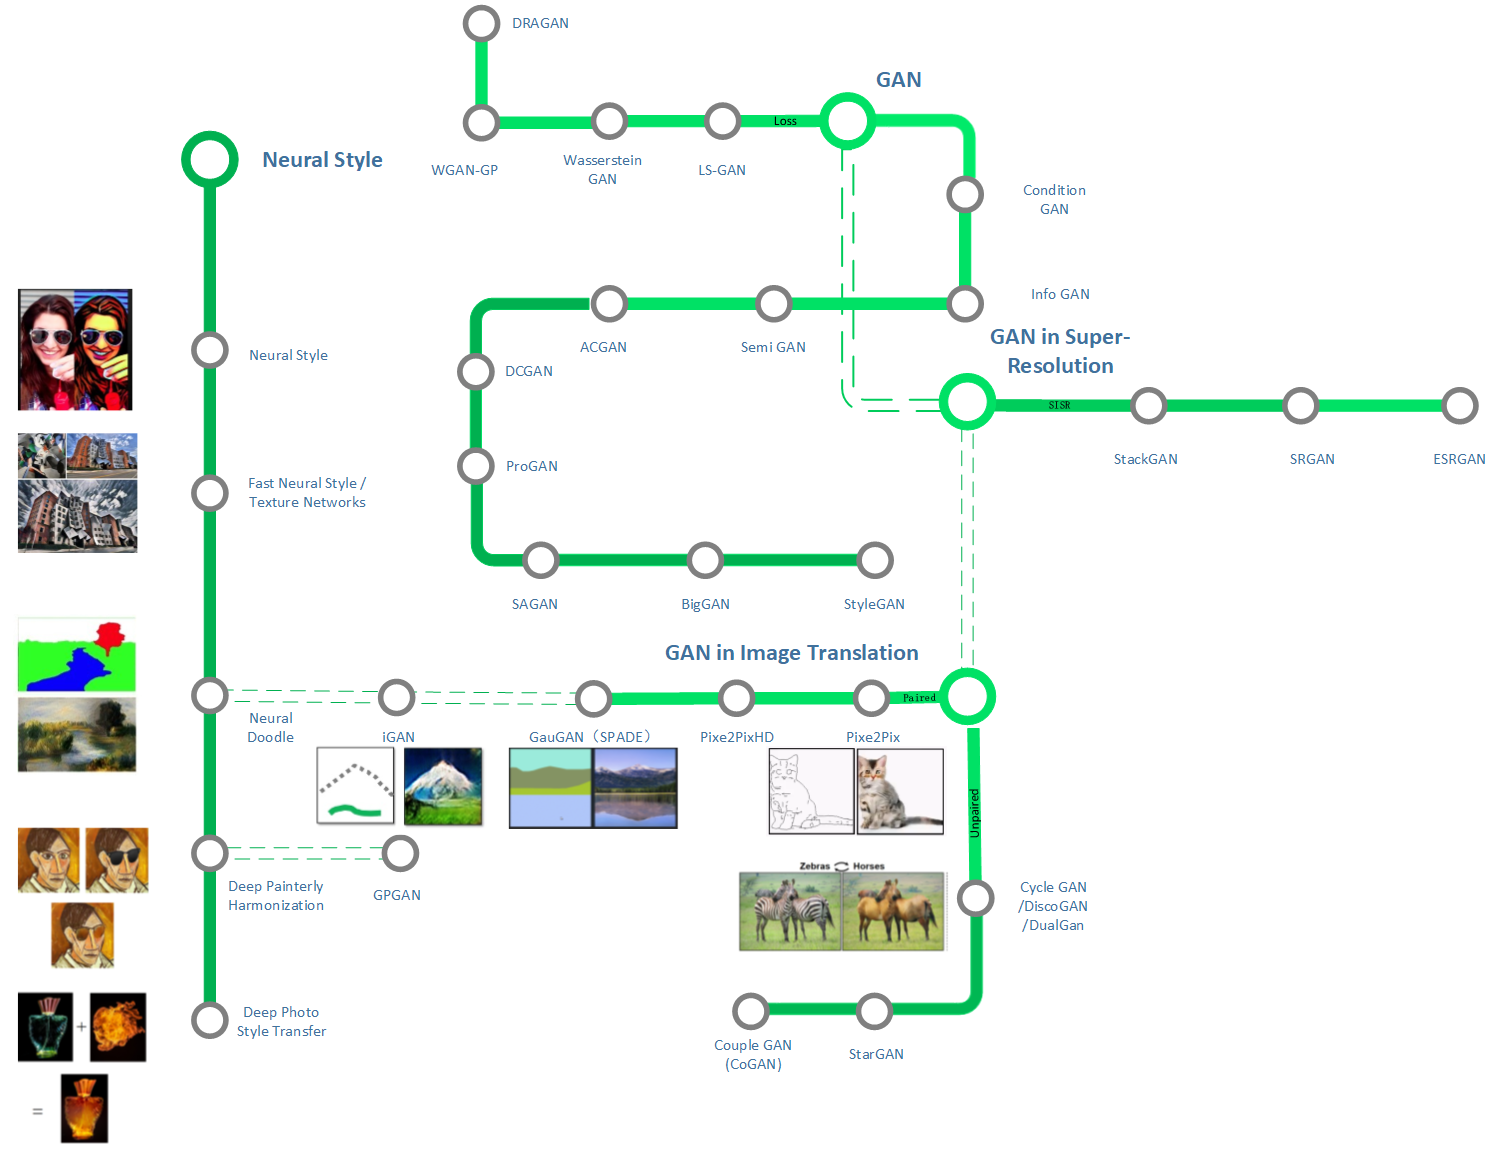
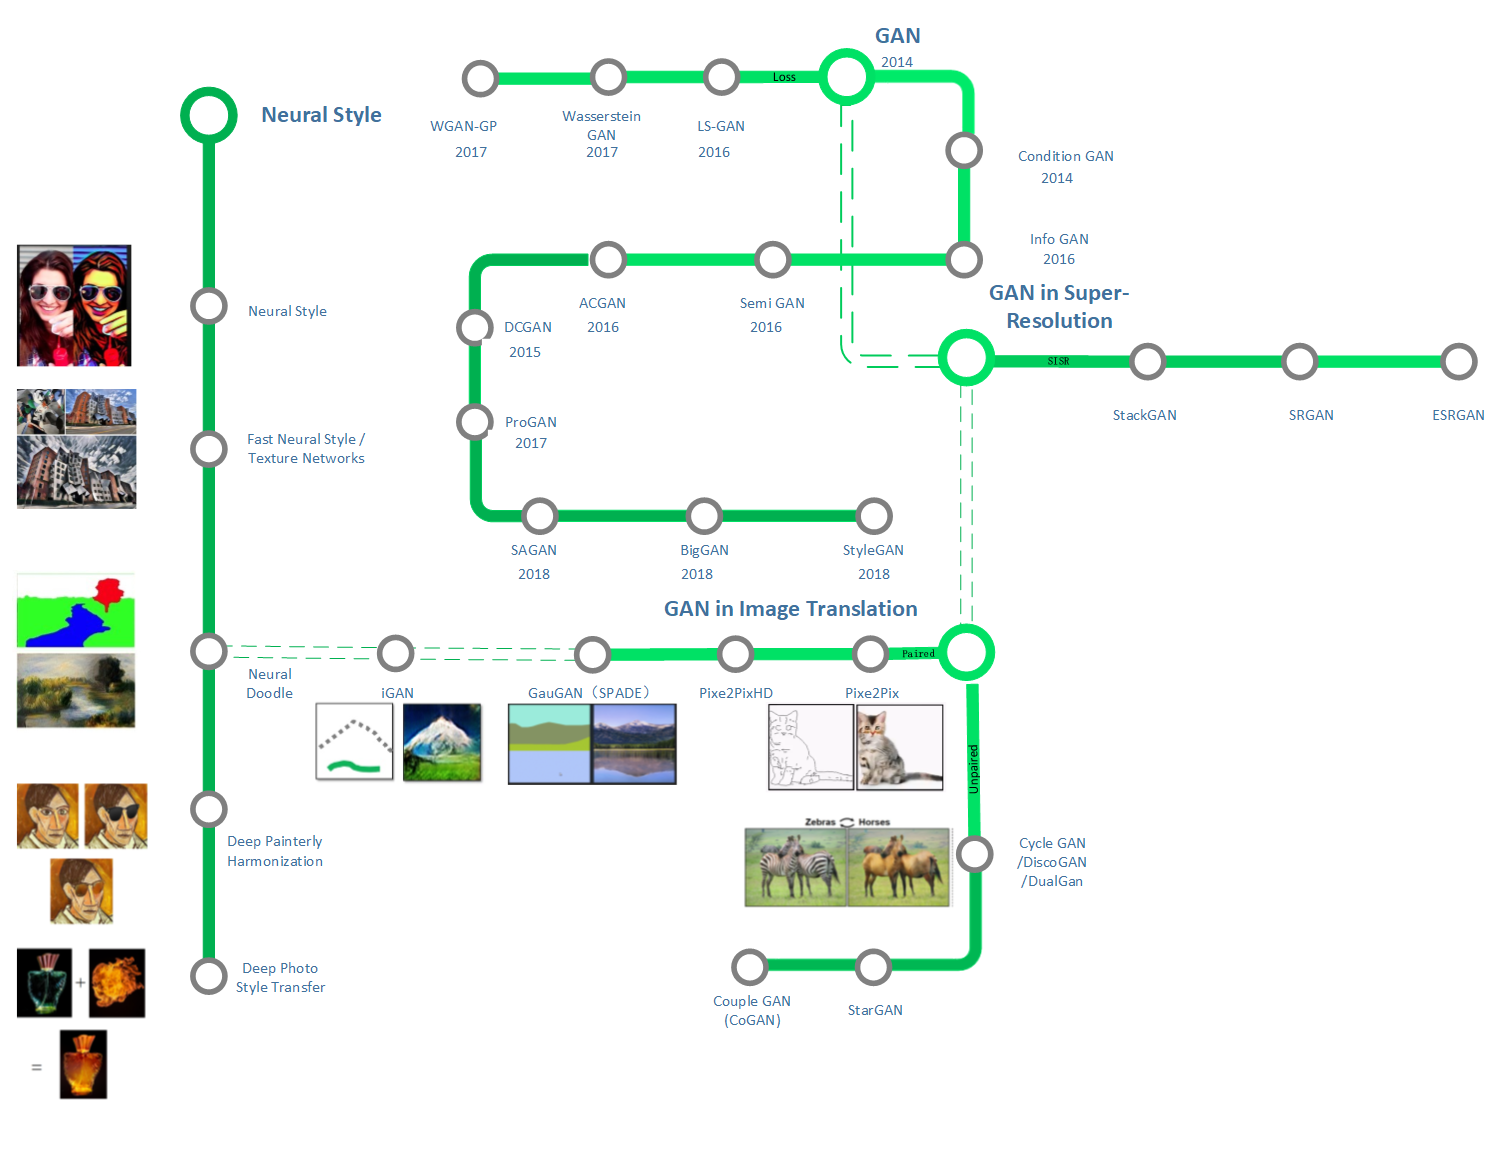
gaugan

diff --git a/GAN对抗生成网络/README.md b/GAN对抗生成网络/README.md
@@ -78,7 +78,7 @@ https://github.com/hindupuravinash/the-gan-zoo
 那么问题来了：这么多变体，有什么区别？哪个好用？
 
 于是，Google Brain的几位研究员（不包括原版GAN的爸爸Ian Goodfellow）对各种进行了loss，参数，权重修改的GAN做一次“中立、多方面、大规模的”评测。
-在此项研究中，Google此项研究中使用了minimax损失函数和用non-saturating损失函数的GAN，分别简称为MM GAN和NS GAN，对比了WGAN、WGAN GP、LS GAN、DRAGAN、BEGAN，除了DRAGAN上文都做了介绍，另外还对比的有VAE（变分自编码器）。为了很好的说明问题，研究者们两个指标来对比了实验结果，分别是FID和精度（precision、）、召回率（recall）以及两者的平均数F1。
+在此项研究中，Google此项研究中使用了minimax损失函数和用non-saturating损失函数的GAN，分别简称为MM GAN和NS GAN，对比了WGAN、WGAN GP、LS GAN、DRAGAN、BEGAN，另外还对比的有VAE（变分自编码器）。为了很好的说明问题，研究者们两个指标来对比了实验结果，分别是FID和精度（precision、）、召回率（recall）以及两者的平均数F1。
 
 其中FID（Fréchet distance(弗雷歇距离) ）是法国数学家Maurice René Fréchet在1906年提出的一种路径空间相似形描述，直观来说是狗绳距离：主人走路径A，狗走路径B，各自走完这两条路径过程中所需要的最短狗绳长度，所以说，FID与生成图像的质量呈负相关。
 
@@ -248,6 +248,7 @@ https://github.com/openai/InfoGAN
 |Beginner	|LSGAN : Least Squares Generative Adversarial Networks	|Mao & et al.|	ICCV 2017|[link](https://ieeexplore.ieee.org/document/8237566)|	
 |Advanced	|Improved Techniques for Training GANs	|Salimans & et al.|	NeurIPS (NIPS) 2016	|[link](https://ceit.aut.ac.ir/http://papers.nips.cc/paper/6125-improved-techniques-for-training-gans.pdf)|	
 |Advanced	|WGAN : Wasserstein GAN	|Arjovsky & et al.|	ICML 2017|[link](http://proceedings.mlr.press/v70/arjovsky17a/arjovsky17a.pdf)|
+|Advanced	|WGAN-GP : improved Training of Wasserstein GANs|	 2017|[link](https://arxiv.org/pdf/1704.00028v3.pdf)|
 |Advanced	|Certifying Some Distributional Robustness with Principled Adversarial Training	|Sinha & et al.|ICML 2018|[link](https://arxiv.org/pdf/1710.10571.pdf) [code](https://github.com/duchi-lab/certifiable-distributional-robustness)|
 
 Loss Functions:
@@ -294,15 +295,13 @@ WGAN-GP：
 
 WGAN的作者Martin Arjovsky不久后就在reddit上表示他也意识到没能完全解决GAN训练稳定性，认为关键在于原设计中Lipschitz限制的施加方式不对，并在新论文中提出了相应的改进方案--WGAN-GP ,从weight clipping到gradient penalty,提出具有梯度惩罚的WGAN（WGAN with gradient penalty）替代WGAN判别器中权重剪枝的方法(Lipschitz限制)：
 
-[1704.00028] Gulrajani et al., 2017,mproved Training of Wasserstein GANs[pdf](https://arxiv.org/pdf/1704.00028v3.pdf)
+[1704.00028] Gulrajani et al., 2017,improved Training of Wasserstein GANs[pdf](https://arxiv.org/pdf/1704.00028v3.pdf)
 
 Tensorflow实现：https://github.com/igul222/improved_wgan_training
 
 pytorch https://github.com/caogang/wgan-gp
 
 
-## DRAGAN
-结合了WGAN和LSGAN两部分，引入博弈论中的无后悔算法，改造其 loss 以解决 mode collapse 问题。
 
 参考 ：
 
@@ -804,12 +803,12 @@ https://nvlabs.github.io/SPADE/
 ## 3.4 图像融合、图像修补
 
 ## GP-GAN
-GP-GAN[25]，目标是将直接复制粘贴过来的图片，更好地融合进原始图片中，做一个 blending 的事情。
 
-
+GP-GAN，目标是将直接复制粘贴过来的图片，更好地融合进原始图片中，做一个 blending 的事情。
 
 这个过程非常像 iGAN，也用到了类似 iGAN 中的一些约束，比如 color constraint。另一方面，这个工作也有点像 pix2pix，因为它是一种有监督训练模型，在 blending 的学习过程中，会有一个有监督目标和有监督的损失函数。
 
+2017 https://arxiv.org/pdf/1703.07195.pdf
  
 Deep image prior
 去除弹幕
@@ -941,7 +940,7 @@ Demo 和代码链接：https://richzhang.github.io/ideepcolor/
 
 
 
-
+DeOldify: Colorizing and Restoring Old Images and Videos with Deep Learning
 
 
 其他：
@@ -1157,6 +1156,11 @@ http://hi.cs.waseda.ac.jp/~esimo/en/research/sketch/
 预训练模型地址：https://drive.google.com/open?id=1byrmn6wp0r27lSXcT9MC4j-RQ2R04P1Z
 
 
+GAN秒变肖像画！清华刘永进提出APDrawingGAN
+https://baijiahao.baidu.com/s?id=1636212645611494666&wfr=spider&for=pc
+
+
+
 其他：
 
 https://make.girls.moe/
@@ -1168,6 +1172,8 @@ https://paintschainer.preferred.tech/index_zh.html
 http://mangacraft.net/
 
 https://github.com/lllyasviel/MangaCraft
+
+https://cs.nju.edu.cn/rl/WebCaricature.htm
 
 
 玩点别的：
@@ -1562,8 +1568,9 @@ https://github.com/DmitryUlyanov/online-neural-doodle
 
 在基于语义合成图像这个领域里，这可是目前效果最强的方法。
 
+![gaugan](https://github.com/weslynn/graphic-deep-neural-network/blob/master/ganpic/gaugan.jpg)
 
-在正在举行的英伟达GTC 19大会上，GauGAN已表态了。美国时候周三周五Ting-Chun Wang和Ming-Yu Liu还将举行相干演讲。
+![gaugan](https://github.com/weslynn/graphic-deep-neural-network/blob/master/ganpic/gaugan.png)
 
 论文地点：https://arxiv.org/abs/1903.07291
 

diff --git a/README.md b/README.md
@@ -1,6 +1,6 @@
 ![title](https://github.com/weslynn/graphic-deep-neural-network/blob/master/qr/map_title_.png)
 
-# AlphaTree : Graphic Deep Neural Network && GAN     深度神经网络(DNN)与对抗神经网络(GAN)模型总览
+# AlphaTree : Graphic Deep Neural Network && GAN     深度神经网络(DNN)与生成式对抗网络(GAN)模型总览
 
 
 在AI学习的漫漫长路上，理解不同文章中的模型与方法是每个人的必经之路，偶尔见到Fjodor van Veen所作的[A mostly complete chart of Neural Networks](http://www.asimovinstitute.org/wp-content/uploads/2016/09/neuralnetworks.png) 和 FeiFei Li AI课程中对模型的[画法](https://github.com/weslynn/graphic-deep-neural-network/blob/master/pic/feifei.png)，大为触动。决定将深度神经网络中的一些模型 进行统一的图示，便于大家对模型的理解。
